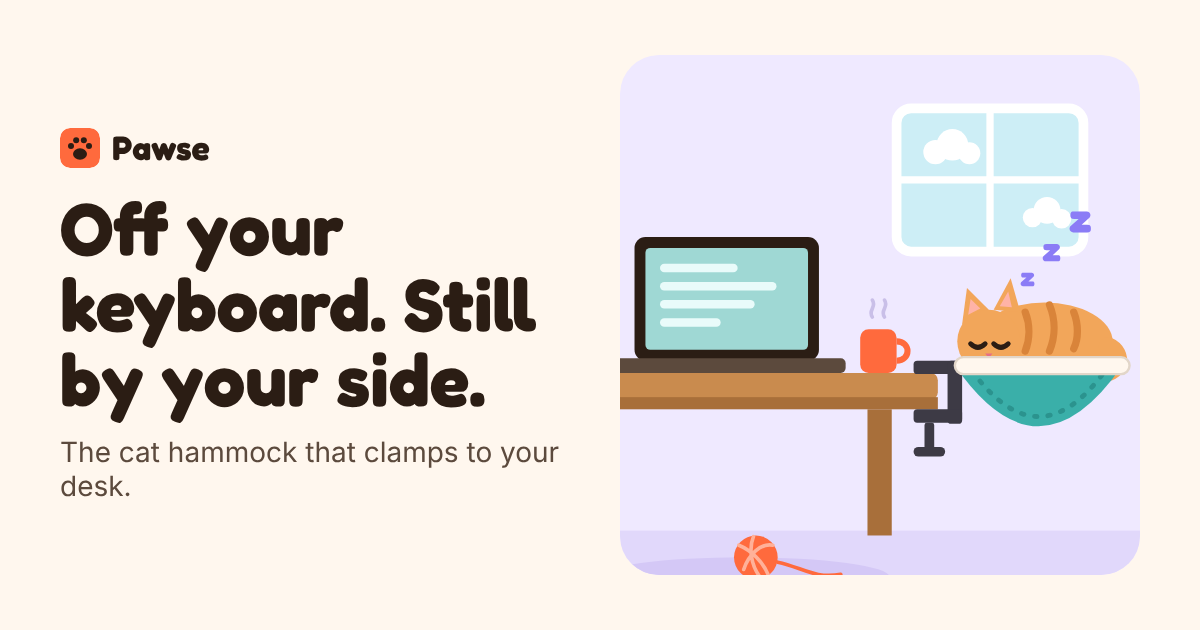
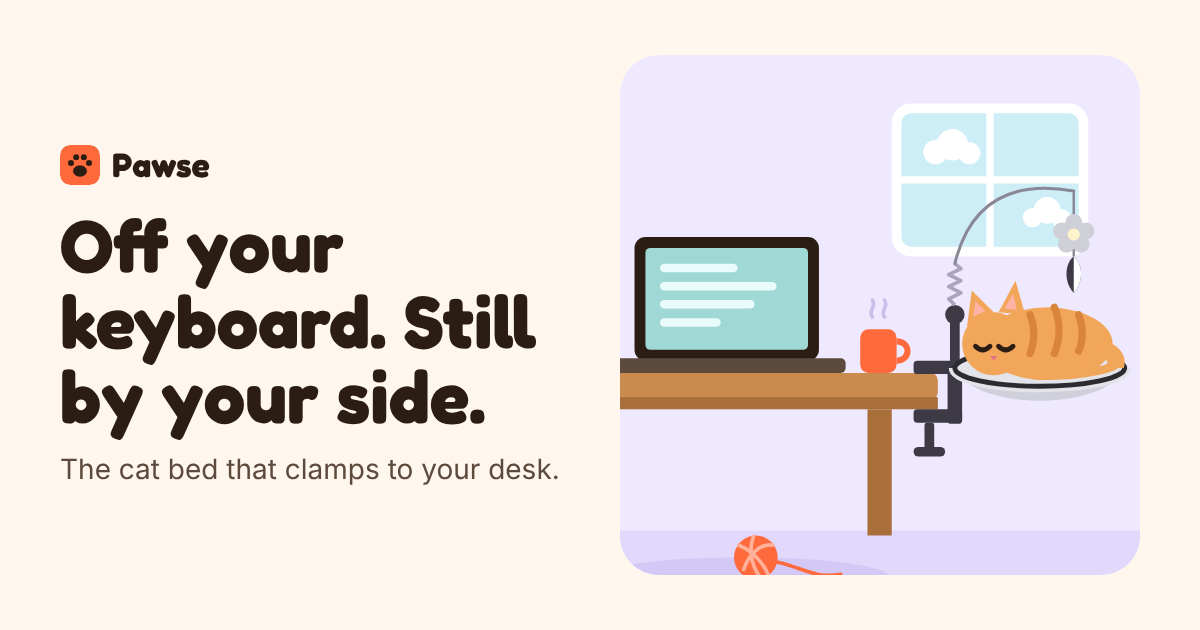
Match cat desk perch page to the 1688 supplier's product
The supplier's item (1688 offer 978904434328, item 3007) is a round
bed on a steel ring with a desk clamp, a swivel mount and a spring
teaser toy, sold with a plush, mesh or clear-bowl cover.

- Copy, specs, steps and FAQ now describe that product: 37 cm round
  bed, 11 kg / 25 lb limit (the lower of the listing's two figures),
  swivel, teaser toy, plush vs mesh covers, no unconfirmed clamp range
  or padding or machine-wash claims
- Bundles: 1 perch (plush), all-season set (plush + mesh), 2 perches
- Hero and offer illustrations redrawn to match; new share image
- README records supplier specs, billed shipping weights, and what is
  still to confirm before selling

Claude-Session: https://claude.ai/code/session_01BkGVMAEqCmqmEtoCGHTZqe

diff --git a/cat/index.html b/cat/index.html
@@ -3,14 +3,14 @@
 <head>
   <meta charset="utf-8">
   <meta name="viewport" content="width=device-width, initial-scale=1, viewport-fit=cover">
-  <title>Pawse Desk Perch: the cat hammock that clamps to your desk</title>
-  <meta name="description" content="Give your cat their own spot right next to you, and off your keyboard. Clamps to your desk in seconds. Free tracked shipping, duties included.">
+  <title>Pawse Desk Perch: the cat bed that clamps to your desk</title>
+  <meta name="description" content="A round cat bed that clamps to the edge of your desk, with a teaser toy on top. Your cat stays right next to you, and off your keyboard. Free tracked shipping, duties included.">
   <meta name="theme-color" content="#fff7ee">
 
   <meta property="og:type" content="product">
   <meta property="og:url" content="https://yassinesr.github.io/rdp/cat/">
   <meta property="og:title" content="Off your keyboard. Still by your side. | Pawse Desk Perch">
-  <meta property="og:description" content="A cozy cat hammock that clamps to the edge of your desk.">
+  <meta property="og:description" content="A cozy round cat bed that clamps to the edge of your desk.">
   <meta property="og:image" content="https://yassinesr.github.io/rdp/assets/og-cat.png">
   <meta name="twitter:card" content="summary_large_image">
 
@@ -58,16 +58,16 @@
   <section class="hero">
     <div class="wrap hero-grid">
       <div class="hero-copy">
-        <p class="eyebrow">The desk hammock for cats</p>
+        <p class="eyebrow">The desk bed for cats</p>
         <h1>Off your keyboard. Still by your side.</h1>
         <p class="lead">
-          Your cat wants to be close while you work. Clamp this cozy hammock to the edge of your desk and
+          Your cat wants to be close while you work. Clamp this cozy round bed to the edge of your desk and
           give them a spot of their own, right next to you and nowhere near your laptop.
         </p>
         <ul class="chips" aria-label="Product highlights">
-          <li><svg aria-hidden="true"><use href="#i-check"/></svg>Clamps on, no tools</li>
-          <li><svg aria-hidden="true"><use href="#i-check"/></svg>Holds cats up to 9 kg (20 lb)</li>
-          <li><svg aria-hidden="true"><use href="#i-check"/></svg>Removable, washable cover</li>
+          <li><svg aria-hidden="true"><use href="#i-check"/></svg>Clamps on, no drilling</li>
+          <li><svg aria-hidden="true"><use href="#i-check"/></svg>Holds cats up to 11 kg (25 lb)</li>
+          <li><svg aria-hidden="true"><use href="#i-check"/></svg>Teaser toy included</li>
         </ul>
         <div class="hero-cta" id="hero-cta">
           <a href="#offer" class="btn btn-lg">Get yours, from <span data-from-price>$29.99</span>
@@ -79,7 +79,7 @@
       <figure class="hero-art">
         <!-- Replace this illustration with your own product photo or looping video once you have it. -->
         <svg viewBox="0 0 480 480" role="img" aria-labelledby="hero-art-title">
-          <title id="hero-art-title">Illustration: an orange cat asleep in a teal hammock clamped to the edge of a desk, next to a laptop</title>
+          <title id="hero-art-title">Illustration: an orange cat asleep on a round plush bed clamped to the edge of a desk, next to a laptop, with a teaser toy dangling above</title>
           <defs>
             <clipPath id="frame"><rect width="480" height="480" rx="36"/></clipPath>
           </defs>
@@ -129,32 +129,43 @@
               <rect x="300" y="323" width="26" height="8" rx="4"/>
             </g>
 
-            <!-- cat (drawn before the hammock so the fabric covers its lower half) -->
+            <!-- teaser wand on the clamp post -->
+            <rect x="330" y="214" width="8" height="40" rx="3" fill="#3d3a45"/>
+            <circle cx="334" cy="214" r="8" fill="#3d3a45"/>
+            <path d="M334 206l-5-5 10-5-10-5 10-5-10-5 10-5-5-4" fill="none" stroke="#a9a3bd" stroke-width="3" stroke-linejoin="round"/>
+            <path d="M334 172Q352 98 432 112" fill="none" stroke="#8a8796" stroke-width="2.5" stroke-linecap="round"/>
+            <path d="M432 112v22" stroke="#8a8796" stroke-width="2"/>
+            <g fill="#cfcfd8">
+              <circle cx="432" cy="138" r="7"/><circle cx="442" cy="145" r="7"/><circle cx="438" cy="156" r="7"/>
+              <circle cx="426" cy="156" r="7"/><circle cx="422" cy="145" r="7"/>
+            </g>
+            <circle cx="432" cy="148" r="5" fill="#fff3cc"/>
+            <path d="M432 160v6" stroke="#8a8796" stroke-width="2"/>
+            <path d="M432 166c8 6 8 22 0 30-8-8-8-24 0-30z" fill="#3d3a45"/>
+            <path d="M432 166c8 6 8 22 0 30z" fill="#ffffff"/>
+
+            <!-- round bed: plush pad and back of the ring -->
+            <path d="M334 258C350 294 458 294 474 258Z" fill="#cfd0d9"/>
+            <ellipse cx="404" cy="258" rx="70" ry="15" fill="#e3e4ea"/>
+            <path d="M334 258A70 15 0 0 1 474 258" fill="none" stroke="#2b2b30" stroke-width="4"/>
+
+            <!-- cat -->
             <g>
-              <ellipse cx="408" cy="236" rx="56" ry="32" fill="#f2a65a"/>
-              <path d="M392 212c4 10 4 22 0 32M412 206c5 12 5 26 0 38M432 212c4 10 4 22 0 30" fill="none" stroke="#d9843a" stroke-width="6" stroke-linecap="round"/>
-              <path d="M340 222l4-30 18 18z" fill="#f2a65a"/>
-              <path d="M366 210l14-26 8 28z" fill="#f2a65a"/>
-              <path d="M345 214l2-13 8 8z" fill="#ffb3a7"/>
-              <path d="M371 207l7-12 3 13z" fill="#ffb3a7"/>
-              <circle cx="362" cy="236" r="26" fill="#f2a65a"/>
-              <path d="M347 238q6 6 12 0M366 238q6 6 12 0" fill="none" stroke="#2b1d14" stroke-width="4" stroke-linecap="round"/>
-              <path d="M359 246h6l-3 4z" fill="#e66f86"/>
-              <path d="M460 240c14 6 10 24-8 22-14-2-26-4-36 2" fill="none" stroke="#f2a65a" stroke-width="15" stroke-linecap="round"/>
-              <path d="M424 262c-4 1-7 3-9 5" fill="none" stroke="#d9843a" stroke-width="15" stroke-linecap="round"/>
+              <ellipse cx="410" cy="238" rx="54" ry="30" fill="#f2a65a"/>
+              <path d="M396 214c4 10 4 22 0 32M416 208c5 12 5 26 0 38M436 214c4 10 4 22 0 30" fill="none" stroke="#d9843a" stroke-width="6" stroke-linecap="round"/>
+              <path d="M344 224l4-30 18 18z" fill="#f2a65a"/>
+              <path d="M370 212l14-26 8 28z" fill="#f2a65a"/>
+              <path d="M349 216l2-13 8 8z" fill="#ffb3a7"/>
+              <path d="M375 209l7-12 3 13z" fill="#ffb3a7"/>
+              <circle cx="366" cy="238" r="26" fill="#f2a65a"/>
+              <path d="M351 240q6 6 12 0M370 240q6 6 12 0" fill="none" stroke="#2b1d14" stroke-width="4" stroke-linecap="round"/>
+              <path d="M363 248h6l-3 4z" fill="#e66f86"/>
+              <path d="M460 244c12 6 8 20-8 19-12-1-22-2-30 2" fill="none" stroke="#f2a65a" stroke-width="14" stroke-linecap="round"/>
             </g>
 
-            <!-- hammock -->
-            <path d="M334 256Q403 356 472 256Z" fill="#3aafa9"/>
-            <path d="M348 260Q403 336 458 260" fill="none" stroke="#2b938e" stroke-width="4" stroke-dasharray="2 9" stroke-linecap="round"/>
-            <rect x="334" y="249" width="144" height="14" rx="7" fill="#fff7ee" stroke="#e2d6c9" stroke-width="2"/>
-
-            <!-- zzz -->
-            <g fill="#8b7cf6" font-family="Fredoka, system-ui, sans-serif" font-weight="700">
-              <text x="388" y="190" font-size="22">z</text>
-              <text x="406" y="170" font-size="28">z</text>
-              <text x="428" y="146" font-size="34">z</text>
-            </g>
+            <!-- front of the plush rim and ring -->
+            <path d="M334 258A70 15 0 0 0 474 258" fill="none" stroke="#e3e4ea" stroke-width="10"/>
+            <path d="M334 258A70 15 0 0 0 474 258" fill="none" stroke="#2b2b30" stroke-width="4"/>
 
             <!-- yarn ball -->
             <circle cx="170" cy="414" r="18" fill="#ff6a3d"/>
@@ -173,18 +184,18 @@
       <div class="section-head">
         <p class="eyebrow">How it works</p>
         <h2 id="how-title">Your cat gets their own seat at the desk.</h2>
-        <p class="sub">Cats usually sit on keyboards to be near you. Give them somewhere warmer and comfier, still close enough to keep an eye on you.</p>
+        <p class="sub">Cats usually sit on keyboards to be near you. Give them somewhere softer, still close enough to keep an eye on you.</p>
       </div>
       <ol class="steps">
         <li class="step">
           <span class="step-num">1</span>
           <h3>Clamp</h3>
-          <p>Slide the padded clamp onto your desk edge and turn the knob until it's tight. No drilling, no tools.</p>
+          <p>Push the frame together, slide the clamp onto your desk edge and hand-tighten the knob. No drilling.</p>
         </li>
         <li class="step">
           <span class="step-num">2</span>
-          <h3>Cozy</h3>
-          <p>Snap on the soft cover. Add a blanket or a shirt you've worn so it smells like you.</p>
+          <h3>Swivel</h3>
+          <p>Turn the bed to the angle you like and tighten it in place. Press the teaser toy onto the top of the post.</p>
         </li>
         <li class="step">
           <span class="step-num">3</span>
@@ -216,26 +227,43 @@
     <div class="wrap offer-grid">
       <div class="offer-art" aria-hidden="true">
         <svg viewBox="0 0 400 400">
+          <defs>
+            <pattern id="mesh" width="10" height="10" patternUnits="userSpaceOnUse">
+              <rect width="10" height="10" fill="#f3f4f7"/>
+              <circle cx="5" cy="5" r="2.2" fill="#d6d9e1"/>
+            </pattern>
+          </defs>
           <rect width="400" height="400" rx="32" fill="#efe9ff"/>
+          <!-- clamp + post -->
           <g fill="#3d3a45">
-            <rect x="70" y="148" width="40" height="12" rx="3"/>
-            <rect x="98" y="148" width="12" height="62" rx="3"/>
-            <rect x="70" y="198" width="40" height="12" rx="3"/>
-            <rect x="80" y="210" width="9" height="26" rx="2"/>
-            <rect x="70" y="234" width="30" height="9" rx="4.5"/>
+            <rect x="48" y="150" width="40" height="12" rx="3"/>
+            <rect x="76" y="150" width="12" height="62" rx="3"/>
+            <rect x="48" y="200" width="40" height="12" rx="3"/>
+            <rect x="58" y="212" width="9" height="26" rx="2"/>
+            <rect x="48" y="236" width="30" height="9" rx="4.5"/>
+            <rect x="82" y="112" width="9" height="44" rx="3"/>
+            <circle cx="86" cy="112" r="9"/>
           </g>
-          <path d="M104 152Q220 330 336 152Z" fill="#3aafa9"/>
-          <path d="M126 158Q220 300 314 158" fill="none" stroke="#2b938e" stroke-width="5" stroke-dasharray="2 11" stroke-linecap="round"/>
-          <rect x="104" y="142" width="240" height="20" rx="10" fill="#fff7ee" stroke="#e2d6c9" stroke-width="2"/>
-          <rect x="196" y="250" width="150" height="96" rx="20" fill="#ffffff" transform="rotate(-6 271 298)"/>
-          <path d="M214 276h112M214 300h112M214 324h112" stroke="#f0dcc8" stroke-width="10" stroke-linecap="round" transform="rotate(-6 271 298)"/>
+          <path d="M86 102q40-80 140-60" fill="none" stroke="#8a8796" stroke-width="3" stroke-linecap="round"/>
+          <path d="M226 42v26" stroke="#8a8796" stroke-width="2.5"/>
+          <g fill="#cfcfd8"><circle cx="226" cy="74" r="9"/><circle cx="238" cy="82" r="9"/><circle cx="233" cy="95" r="9"/><circle cx="219" cy="95" r="9"/><circle cx="214" cy="82" r="9"/></g>
+          <circle cx="226" cy="86" r="6" fill="#fff3cc"/>
+          <!-- plush bed -->
+          <path d="M92 166C118 226 322 226 348 166Z" fill="#cfd0d9"/>
+          <ellipse cx="220" cy="166" rx="128" ry="30" fill="#e3e4ea"/>
+          <ellipse cx="220" cy="166" rx="128" ry="30" fill="none" stroke="#2b2b30" stroke-width="6"/>
+          <!-- spare mesh cover -->
+          <g transform="rotate(-8 270 300)">
+            <ellipse cx="270" cy="304" rx="104" ry="46" fill="#000" opacity=".06"/>
+            <ellipse cx="270" cy="298" rx="104" ry="46" fill="url(#mesh)" stroke="#cfd2da" stroke-width="3"/>
+          </g>
         </svg>
       </div>
 
       <div class="offer-panel">
         <p class="eyebrow">Pawse Desk Perch</p>
         <h2 id="offer-title">Pick your bundle</h2>
-        <p class="sub">A spare cover means there's always a clean one on laundry day.</p>
+        <p class="sub">Cozy plush for cold months, breathable mesh for warm ones.</p>
 
         <!--
           Each bundle is one Shopify variant. Set data-variant to that variant's ID and data-price
@@ -245,7 +273,7 @@
           <legend class="sr-only">Choose a bundle</legend>
 
           <label class="bundle">
-            <input type="radio" name="bundle" value="single" data-qty="1" data-price="29.99" data-variant="">
+            <input type="radio" name="bundle" value="single" data-qty="1" data-price="29.99" data-variant="" data-note="Plush cover">
             <span class="bundle-body">
               <span class="bundle-name">1 perch</span>
               <span class="bundle-meta" data-meta></span>
@@ -254,13 +282,13 @@
           </label>
 
           <label class="bundle">
-            <input type="radio" name="bundle" value="cover" data-qty="1" data-price="34.99" data-variant="" data-note="Includes a second washable cover" checked>
+            <input type="radio" name="bundle" value="allseason" data-qty="1" data-price="36.99" data-variant="" data-note="Plush + mesh covers, swap with the seasons" checked>
             <span class="badge">Our pick</span>
             <span class="bundle-body">
-              <span class="bundle-name">1 perch + spare cover</span>
-              <span class="bundle-meta" data-meta>Includes a second washable cover</span>
+              <span class="bundle-name">All-season set</span>
+              <span class="bundle-meta" data-meta>Plush + mesh covers, swap with the seasons</span>
             </span>
-            <span class="bundle-price" data-price-label>$34.99</span>
+            <span class="bundle-price" data-price-label>$36.99</span>
           </label>
 
           <label class="bundle">
@@ -275,7 +303,7 @@
         </fieldset>
 
         <button type="button" class="btn btn-lg btn-block" data-buy>
-          Add to cart · <span data-total>$34.99</span>
+          Add to cart · <span data-total>$36.99</span>
         </button>
         <p class="checkout-note" data-checkout-note hidden>
           Checkout isn't connected yet. Add your Shopify store and variant IDs (see README).
@@ -300,14 +328,15 @@
     <div class="wrap details-grid">
       <div>
         <p class="eyebrow">The details</p>
-        <h2 id="details-title">Sturdy clamp, soft landing.</h2>
+        <h2 id="details-title">Steel frame, soft landing.</h2>
         <dl class="specs">
-          <div><dt>Bed size</dt><dd>About 40 × 30 cm (16 × 12 in)</dd></div>
-          <div><dt>Holds</dt><dd>Cats up to 9 kg (20 lb)</dd></div>
-          <div><dt>Fits</dt><dd>Desk tops up to about 6 cm (2.4 in) thick, with an overhanging edge</dd></div>
-          <div><dt>Frame</dt><dd>Steel frame and clamp with padded grips that won't mark your desk</dd></div>
-          <div><dt>Cover</dt><dd>Soft, removable and machine washable</dd></div>
-          <div><dt>Setup</dt><dd>Clamps on in under a minute, no tools</dd></div>
+          <div><dt>Bed size</dt><dd>Round, about 37 cm (14.5 in) across</dd></div>
+          <div><dt>Holds</dt><dd>Cats up to 11 kg (25 lb)</dd></div>
+          <div><dt>Fits</dt><dd>Desks and tables with an overhanging edge</dd></div>
+          <div><dt>Frame</dt><dd>Steel frame and clamp. Swivels, then tightens in place</dd></div>
+          <div><dt>Covers</dt><dd>Faux-fur plush (cozy) or sandwich mesh (breathable). Both slide off the frame</dd></div>
+          <div><dt>Toy</dt><dd>Spring teaser wand with a pom-pom and feather, about 33 cm tall</dd></div>
+          <div><dt>Setup</dt><dd>Push-fit frame and a hand-tightened clamp. No drilling</dd></div>
         </dl>
       </div>
       <div class="fills">
@@ -334,23 +363,27 @@
       <div class="faq">
         <details>
           <summary>Will it fit my desk?</summary>
-          <p>It clamps onto desk tops up to about 6 cm (2.4 in) thick that have an edge sticking out, with room for the clamp underneath. It won't fit desks with a drawer, panel or frame right at the edge where you want to clamp it.</p>
+          <p>It clamps onto desks and tables with an edge that sticks out and room for the clamp underneath. It won't fit where a drawer, panel or frame sits right at the edge.</p>
         </details>
         <details>
           <summary>Will it damage my desk?</summary>
-          <p>The clamp has padded grips, so there's no drilling and no marks on most surfaces. For delicate finishes, fold a cloth between the clamp and the desk.</p>
+          <p>There's no drilling. To protect a delicate finish, put a folded cloth or felt pad between the clamp and the desk before you tighten it.</p>
         </details>
         <details>
           <summary>Is it safe for a big cat?</summary>
-          <p>It holds cats up to 9 kg (20 lb) when the clamp is fully tightened. Check it before your cat jumps in, and don't use it for cats over the limit.</p>
+          <p>It holds cats up to 11 kg (25 lb) when the clamp is fully tightened. Check it before your cat jumps in, and don't use it for cats over the limit.</p>
         </details>
         <details>
           <summary>What if my cat ignores it?</summary>
           <p>Try the tips above: put it right by your chair, add your scent and a treat, and give it a few days. If it still isn't working, you have 30 days to return it for a full refund.</p>
         </details>
         <details>
-          <summary>How do I wash it?</summary>
-          <p>Unclip the cover and machine wash it cold on a gentle cycle, then let it air dry. Wipe the frame with a damp cloth.</p>
+          <summary>How do I clean it?</summary>
+          <p>Slide the cover off the frame. Hand washing in cool water and air drying keeps the plush soft. Wipe the frame with a damp cloth.</p>
+        </details>
+        <details>
+          <summary>Plush or mesh?</summary>
+          <p>Plush is warm and cozy for cooler months. Mesh is breathable for warm days. The all-season set comes with both, so you can swap.</p>
         </details>
         <details>
           <summary>How long does shipping take?</summary>
@@ -390,8 +423,8 @@
 <!-- Sticky buy bar (mobile) -->
 <div class="sticky-bar" data-sticky aria-hidden="true">
   <div class="sticky-info">
-    <span class="sticky-name" data-sticky-name>1 perch + spare cover</span>
-    <span class="sticky-price" data-sticky-price>$34.99</span>
+    <span class="sticky-name" data-sticky-name>All-season set</span>
+    <span class="sticky-price" data-sticky-price>$36.99</span>
   </div>
   <a href="#offer" class="btn" tabindex="-1">Get yours</a>
 </div>

diff --git a/README.md b/README.md
@@ -7,7 +7,7 @@ browser and can be hosted anywhere for free.
 | Page | Product | Live URL (GitHub Pages) |
 |---|---|---|
 | `index.html` | Suction-cup dog lick mat | https://yassinesr.github.io/rdp/ |
-| `cat/index.html` | Desk Perch, a cat hammock that clamps to a desk | https://yassinesr.github.io/rdp/cat/ |
+| `cat/index.html` | Desk Perch, a round cat bed that clamps to a desk | https://yassinesr.github.io/rdp/cat/ |
 
 Every buy button sends shoppers straight to **Shopify checkout**, so payments, orders and policies
 live in one Shopify store. Both pages share the same styles, script and store settings.
@@ -42,9 +42,9 @@ Create one product per page, with one variant per bundle. Prices must match the 
 | Pawse Suction Lick Mat | 1 mat | $17.99 |
 | | 2 mats | $27.99 |
 | | 3 mats + spreader | $34.99 |
-| Pawse Desk Perch | 1 perch | $29.99 |
-| | 1 perch + spare cover | $34.99 |
-| | 2 perches | $49.99 |
+| Pawse Desk Perch | 1 perch (plush cover) | $29.99 |
+| | All-season set (plush + mesh covers) | $36.99 |
+| | 2 perches (plush) | $49.99 |
 
 Find each variant's ID: open the product in Shopify admin, click the variant, and copy the number
 at the end of the URL (`.../variants/44012345678901`).
@@ -58,7 +58,7 @@ Each bundle in a page's "Pick your bundle" section has `data-price` and `data-va
 ```
 
 Price labels, the per-item price and "save $X" text are calculated from `data-price`.
-A bundle with `data-note="..."` shows that text instead, as the "perch + spare cover" bundle does.
+A bundle with `data-note="..."` shows that text instead, as the desk perch bundles do.
 
 ### 3. Fill in the shared settings at the top of `assets/app.js`
 
@@ -117,10 +117,12 @@ Each page makes promises, and each one has to be true.
 **Lick mat specs** (edit "The details" if your supplier's differ): about 20 × 20 cm, food-grade
 BPA-free silicone, suction-cup back, dishwasher and freezer safe.
 
-**Desk perch specs** (edit "The details", the chips at the top and the FAQ if they differ): bed about
-40 × 30 cm, **holds cats up to 9 kg (20 lb)**, fits desk tops up to about 6 cm thick, steel frame
-with padded clamp, removable machine-washable cover, no tools needed. The weight limit and clamp
-range are safety claims, so confirm them with the supplier *and* test a sample yourself.
+**Desk perch specs** come from the supplier listing below: round bed about 37 cm across, steel
+frame, swivels and tightens in place, plush or mesh cover that slides off the frame, spring teaser
+toy (about 33 cm), **holds cats up to 11 kg (25 lb)**. The listing says "25 lbs (12 kg)", which
+don't match, so the page uses the lower figure. The weight limit is a safety claim: test a sample
+on a real desk before selling. Once the supplier confirms the clamp's desk-thickness range, add it
+to "Fits" in the details and to the "Will it fit my desk?" FAQ answer.
 
 ## Sourcing checklist (1688 / Alibaba / Yiwu)
 
@@ -129,13 +131,29 @@ range are safety claims, so confirm them with the supplier *and* test a sample y
 - Weight per mat (aim for under 150 g) and suction strength on tile and glass.
 - Silicone spreader spatula for the 3-mat bundle.
 
-**Desk perch**
-- **Load rating and a load-test video** at the advertised weight, with the clamp on a real desk.
-- **Clamp opening range** (minimum and maximum desk thickness) and whether the grips are padded.
-- **Shipping box size and weight.** Air lines charge by whichever is bigger: real weight or
-  *volumetric* weight (length × width × height in cm ÷ 6000, or the divisor your line uses).
-  A 40 × 30 × 6 cm box counts as 1.2 kg even if it weighs less, so ask for flat-pack packaging.
-- **Spare covers** sold separately, for the "perch + spare cover" bundle.
+**Desk perch: current supplier (1688 offer 978904434328)**
+
+Ships from Zhejiang. Item no. 3007, brand 茜朵, made for export (跨境出口专供), and no licensable
+brand, so you can sell it under your own. Its listed downstream platforms include Amazon and
+independent stores.
+
+| Version (规格) | Gross weight | Box size | Billed weight* |
+|---|---|---|---|
+| 3007 plush (绒布款) | 875 g | 37 × 25 × 7.5 cm | about 1.16 kg |
+| 3007 mesh (网眼布款) | 845 g | 37 × 25 × 7.5 cm | about 1.16 kg |
+| 3007 clear PS bowl (透明罩款) | 1,488 g | 37.8 × 36.7 × 8 cm | about 1.85 kg |
+
+\*Air lines charge by whichever is bigger: real weight or *volumetric* weight (length × width ×
+height in cm ÷ 6000). Some lines divide by 5000, which makes it higher. Use the plush and mesh
+versions: the clear bowl costs about 60% more to ship and can crack in transit.
+
+Still to confirm with the supplier:
+- [ ] **Price per SKU** and price breaks, plus the dropshipping (一件代发) price.
+- [ ] **Clamp range**: minimum and maximum desk thickness (适用桌面厚度).
+- [ ] **Load-test video** at 11 kg, and whether the clamp has protective pads.
+- [ ] **Mesh cover sold on its own** (for the all-season set), and its price and weight.
+- [ ] **Permission to use their product photos and videos**, until you have your own.
+- [ ] **Custom logo or packaging**, and the minimum order for it.
 
 **Both**
 - MOQ for a printed logo and your own retail box.
